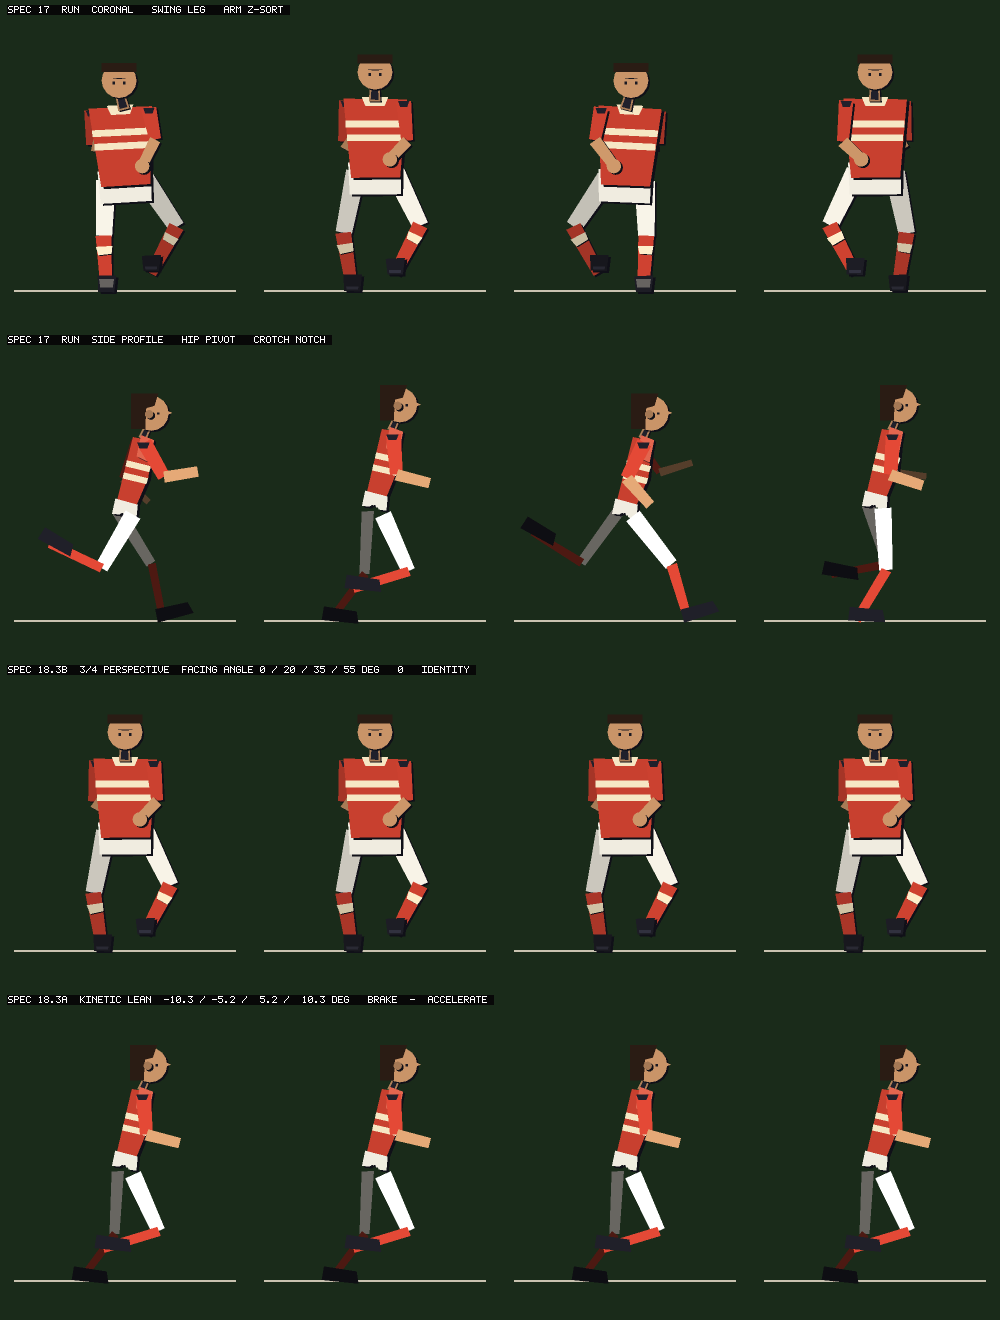
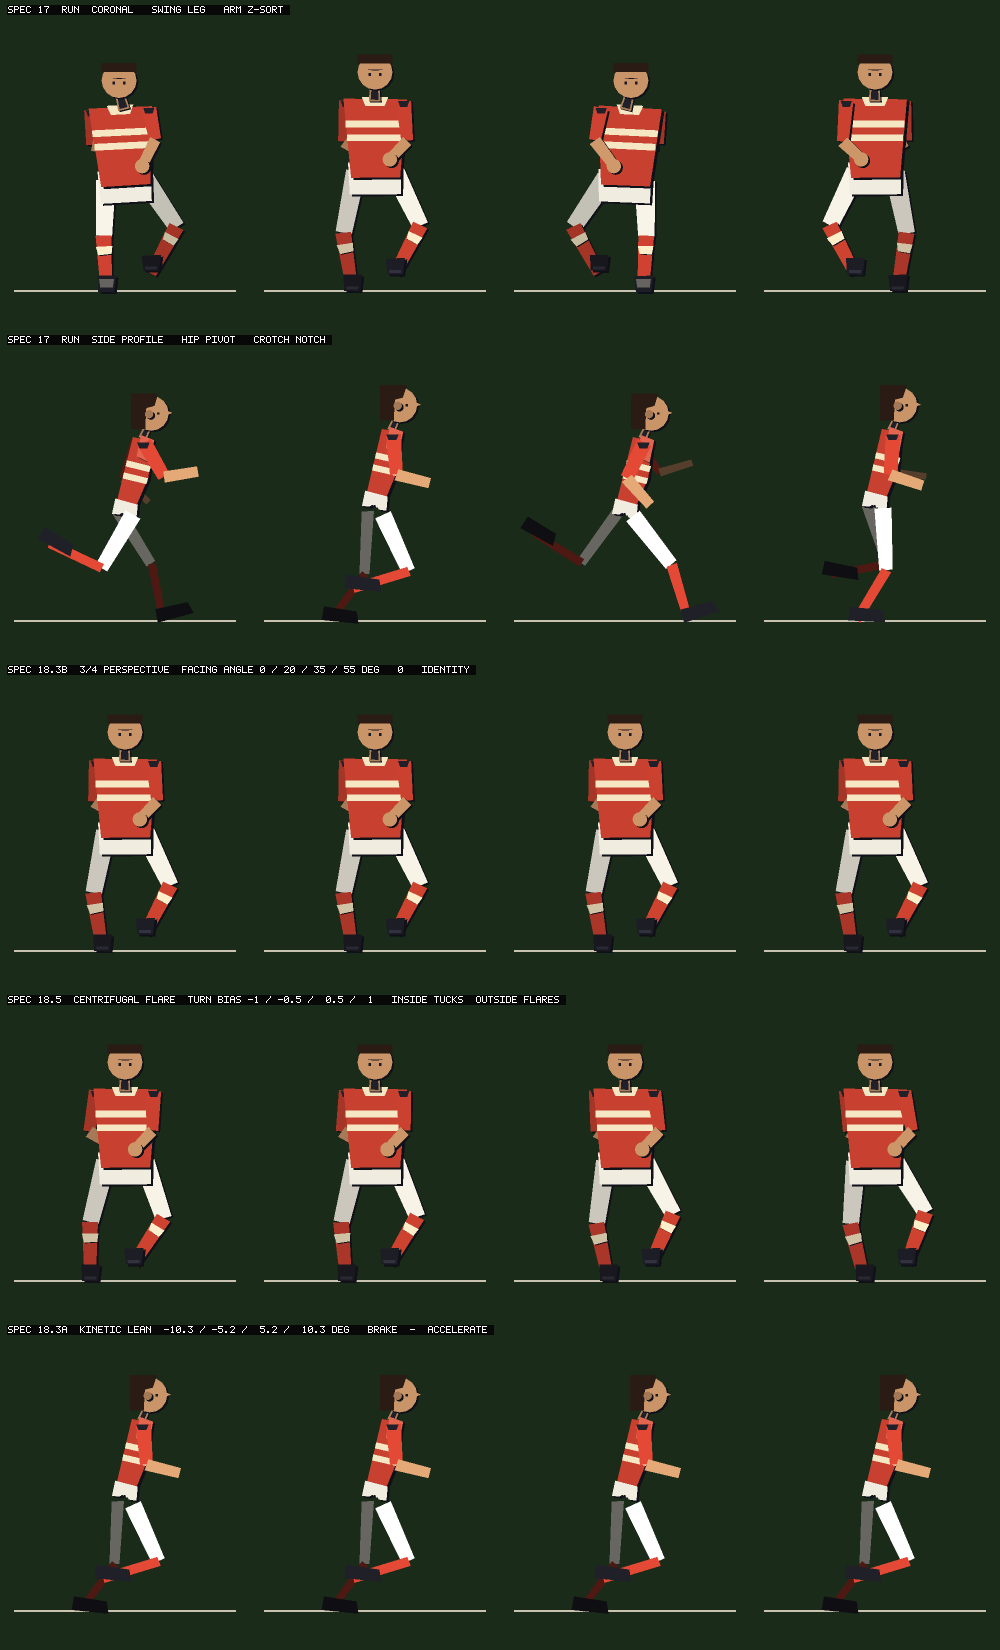
SPEC_18.5: centrifugal secondary animation
Turn rate is the signed curvature of the smoothed velocity, taken as the
cross product with its own derivative rather than by differentiating a
heading angle. Verified exact to 3 decimals against known circular
motion (r=5 v=7 -> 1.400, r=10 v=8 -> 0.800, r=3 v=6 -> 2.000 rad/s).
Speed-gated by smoothstep over 1.5-3.5 m/s, EMA at tau=0.35 sharing the
18.3a velocity so lean and flare can never disagree, then tanh at
W_REF=2.0.

Live behaviour matches the proposal: bias p50 0.054, p90 0.501, p99
0.872, strictly bounded inside (-1,1), 0.56% of frames saturated.

TWO BUGS CAUGHT BY MEASUREMENT, both of which the eye passed:

1. The knee bias must NOT go on solveKnee's . That argument is a
   +/-1 perpendicular selector, not an angle, and the IK only preserves
   bone length at exactly |bend|=1 - bend=1.3 stretches the femur
   0.440 -> 0.473 m and bend=2.0 to 0.571 m. That is the hyperextension
   the directive asked to prevent, and the natural reading of 'apply a
   bend bias' causes it. The bias is applied to the IK FOOT TARGET
   instead, so both bone lengths stay exact by construction: worst thigh
   error 0.0000% across 25600 samples.

2. The flare was applied in world x, which moved BOTH legs the same way
   - the stance widened or narrowed symmetrically instead of the inside
   limb tucking while the outside flared. Now applied along each limb's
   own outward direction. Inside tucks and outside flares in both
   directions, mirror-symmetric, identity at zero.
[…]

diff --git a/src/render/paper.ts b/src/render/paper.ts
@@ -636,6 +636,8 @@ export const FOOT_DEBOUNCE = 0.10;
 
 export interface LeanState {
   vx: number; vz: number;        // EMA velocity
+  ax: number; az: number;        // derivative of the EMA velocity (SPEC_18.5)
+  omega: number;                 // EMA signed turn rate, rad/s (SPEC_18.5)
   a: number;                     // EMA along-travel acceleration
   started: boolean;
   lastFootT: number;             // debounce clock
@@ -644,7 +646,7 @@ export interface LeanState {
 }
 
 export function newLeanState(): LeanState {
-  return { vx: 0, vz: 0, a: 0, started: false, lastFootT: -99, wasGrounded: true, squash: 0 };
+  return { vx: 0, vz: 0, ax: 0, az: 0, omega: 0, a: 0, started: false, lastFootT: -99, wasGrounded: true, squash: 0 };
 }
 
 /**
@@ -659,16 +661,19 @@ export function updateLean(st: LeanState, rawVx: number, rawVz: number, stepped:
   // 1 — reject discontinuities: reseed rather than differentiate a teleport
   if (stepped > MAX_STEP) {
     st.vx = rawVx; st.vz = rawVz; st.started = true;
+    st.ax = 0; st.az = 0;   // a teleport is not a turn
+
     return SHEAR_MAX * Math.tanh(st.a / A_REF);
   }
   const av = 1 - Math.exp(-dt / LEAN_TAU);
-  if (!st.started) { st.vx = rawVx; st.vz = rawVz; st.started = true; return 0; }
+  if (!st.started) { st.vx = rawVx; st.vz = rawVz; st.ax = 0; st.az = 0; st.started = true; return 0; }
   // 2 — EMA the velocity
   const px = st.vx, pz = st.vz;
   st.vx += (rawVx - st.vx) * av;
   st.vz += (rawVz - st.vz) * av;
   // 3 — differentiate the SMOOTHED velocity
   const ax = (st.vx - px) / dt, az = (st.vz - pz) / dt;
+  st.ax = ax; st.az = az;   // SPEC_18.5 reads these for the curvature cross product
   // 4 — project along travel (signed: + accelerating, - braking)
   const spd = Math.hypot(st.vx, st.vz);
   const along = spd > 0.5 ? (ax * st.vx + az * st.vz) / spd : 0;
@@ -694,6 +699,68 @@ export function updateFootSquash(st: LeanState, grounded: boolean, spd: number, 
   // spike then recover over ~6 frames at 60 Hz
   st.squash = Math.max(0, st.squash - dt * (FOOT_SQUASH / 0.10));
   return st.squash;
+}
+
+/* ================================================================== */
+/* SPEC_18.5 — CENTRIFUGAL SECONDARY ANIMATION                         */
+/* ------------------------------------------------------------------ */
+/* Limbs respond to angular momentum: the inside limb of a turn tucks  */
+/* toward the body, the outside limb flares out.                       */
+/*                                                                     */
+/* The turn rate is NOT taken from a heading angle. Measured, the raw  */
+/* travel heading d/dt atan2(vx,vz) has a p99 of 8091 deg/s — 22 revs  */
+/* per second — because atan2 of a near-zero velocity is undefined and */
+/* flips wildly; below the 2.2 m/s facing threshold p99 is 9763 deg/s. */
+/* Nor is it taken from the renderer's `pg.face`: that is driven by    */
+/* three different targets which switch mode 4077 times in 90 s, and   */
+/* each switch is a step change that is not real rotation. And `a.rf`  */
+/* is a +/-1 sign, not an angle at all.                                */
+/*                                                                     */
+/* Instead: signed curvature of the SMOOTHED velocity, via the cross   */
+/* product with its own derivative. No atan2, so no wrap discontinuity */
+/* and no low-speed singularity.                                       */
+/*                                                                     */
+/*     w = (vx*az - vz*ax) / |v|^2                                     */
+/*                                                                     */
+/* Verified against known circular motion, exact to 3 decimals:        */
+/* r=5 v=7 -> 1.400, r=10 v=8 -> 0.800, r=3 v=6 -> 2.000 rad/s.        */
+/* Peak on live play 4.92 rad/s, against 188 rad/s for the raw signal. */
+/* ================================================================== */
+
+/** tanh reference. 2.0 keeps a jog near 10% bias, a hard turn near 90%,
+ *  and saturates on only 0.88% of moving frames (measured). */
+export const W_REF = 2.0;
+/** Speed ramp, m/s. A hard gate chattered: 15 sign flips vs 8 for the ramp. */
+export const W_GATE_LO = 1.5;
+export const W_GATE_HI = 3.5;
+/** Max lateral bias, radians-equivalent. Bounded by tanh, so these are hard. */
+export const KNEE_GAIN = 0.10;
+export const ELBOW_GAIN = 0.14;
+
+/**
+ * The cross product below is NEGATIVE for a counter-clockwise turn. Naming the
+ * convention once, here, is the only defence against wiring the flare backwards
+ * — the sign is otherwise invisible at the call site.
+ */
+export function insideSign(omega: number): number {
+  return omega >= 0 ? -1 : 1;
+}
+
+/**
+ * Advance the turn-rate filter and return the saturated bias in (-1, 1).
+ * Shares `LeanState`'s EMA velocity so the lean and the limb flare read the
+ * same motion and can never disagree about which way the player is turning.
+ */
+export function updateTurnBias(st: LeanState, dt: number): number {
+  if (dt <= 0) return Math.tanh(st.omega / W_REF);
+  const spd = Math.hypot(st.vx, st.vz);
+  // smoothstep speed gate: no centrifugal force without linear velocity
+  const t = Math.min(1, Math.max(0, (spd - W_GATE_LO) / (W_GATE_HI - W_GATE_LO)));
+  const gate = t * t * (3 - 2 * t);
+  const raw = spd > 0.5 ? ((st.vx * st.az - st.vz * st.ax) / (spd * spd)) * gate : 0;
+  const a = 1 - Math.exp(-dt / LEAN_TAU);
+  st.omega += (raw - st.omega) * a;
+  return Math.tanh(st.omega / W_REF);
 }
 
 /* ================================================================== */

diff --git a/src/render/coronal.ts b/src/render/coronal.ts
@@ -21,6 +21,7 @@ import {
   paperCard, poly, foldTab, crease, ballPaper,
   hipRoots, groundedClearance, armDepth, solveKnee,
   depthShade, pairShade, cornerRadius,
+  insideSign, KNEE_GAIN, ELBOW_GAIN,
 } from './paper';
 import { Pose } from './clips';
 import { project, type Camera, type View } from './retro';
@@ -63,6 +64,8 @@ export interface PaperDrawArgs {
   legScale?: number;
   /** SPEC_18.3a — kinetic lean, radians. Sheared about the foot anchor. */
   lean?: number;
+  /** SPEC_18.5 — saturated centrifugal turn bias, -1..1. */
+  turn?: number;
   /** SPEC_18.3b — 3/4 projection for the front/back card. */
   tq?: { shear: number; narrow: number };
   /** Which way the actor is turning away from camera, +1 / -1. */
@@ -87,6 +90,20 @@ function rotPt(px: number, py: number, cx: number, cy: number, ang: number): [nu
   const c = Math.cos(ang), s = Math.sin(ang);
   const dx = px - cx, dy = py - cy;
   return [cx + dx * c - dy * s, cy + dx * s + dy * c];
+}
+
+/**
+ * SPEC_18.5 — how strongly each arm is locked to the ball, 0..1, using exactly
+ * the weights `carryPose` applies below. Returned as [left, right] so the
+ * centrifugal flare can be suppressed in proportion to the override rather
+ * than switched off by a boolean guess.
+ */
+export function carryLock(carry: number, cs: number, ballSide: number): [number, number] {
+  if (carry <= 0.02) return [0, 0];
+  const nearR = ballSide >= 0;
+  const twoHand = clamp01(1 - cs * 1.6) * carry;
+  const wFar = Math.max(twoHand, cs * carry);
+  return nearR ? [wFar, carry] : [carry, wFar];
 }
 
 /** apply carry overrides: clamp arm around the ball, fend with the far arm */
@@ -229,7 +246,22 @@ function drawCoronal(L: Locals, a: PaperDrawArgs, front: boolean) {
     const thighD = b.leg * 0.52 * fore, shinD = b.leg * 0.48 * fore;
     /* Lateral travel: abduction plus a small sagittal cross-under, so a
      * swinging leg passes under the body instead of hanging out to the side. */
-    const footX = hx + s * ad * (thighD + shinD) * 0.42 - Math.sin(l) * 0.055 * s;
+    /* SPEC_18.5 — centrifugal bias. Applied to the IK FOOT TARGET, never to
+     * `bend`. `bend` is a +/-1 perpendicular selector, not an angle: the IK
+     * only preserves bone length at exactly |bend| = 1. Measured, bend = 1.3
+     * stretches the femur 0.440 -> 0.473 m and bend = 2.0 stretches it to
+     * 0.571 m. Biasing it would literally hyperextend the leg. Moving the
+     * target instead keeps both bone lengths exact by construction, and
+     * solveKnee's own `reach * 0.999` clamp bounds the result. */
+    /* The bias must act along each limb's OWN outward direction (`s`), not
+     * along world x. Applying it in world x moved both legs the same way, so
+     * the stance merely widened or narrowed symmetrically instead of the
+     * inside limb tucking while the outside limb flared. Measured before the
+     * fix: at turn = +1 both feet sat 0.084 m FURTHER from the spine. */
+    const inSide = insideSign(a.turn ?? 0);
+    const legFlare = (a.turn ?? 0) === 0 ? 0
+      : s * (s === inSide ? -1 : 1) * Math.abs(a.turn ?? 0) * KNEE_GAIN * (thighD + shinD);
+    const footX = hx + s * ad * (thighD + shinD) * 0.42 - Math.sin(l) * 0.055 * s + legFlare;
     const footY = s < 0 ? clrL : clrR;
     const [kneeX, kneeY] = solveKnee(hx, hy, footX, footY, thighD, shinD, s);
     /* SPEC_18.1 — the leg's own depth. `sin(l)` is the odd term: a leg swung
@@ -301,18 +333,28 @@ function drawCoronal(L: Locals, a: PaperDrawArgs, front: boolean) {
   const avf = front ? 1 : -1;
   const [shKitL, shKitR] = pairShade(pal.kit, armDepth(p.aL) * avf, armDepth(p.aR) * avf);
   const [shSkinL, shSkinR] = pairShade(a.skin, armDepth(p.aL) * avf, armDepth(p.aR) * avf);
+  const [carryLockL, carryLockR] = carryLock(a.carry, a.carryStyle, a.ballSide);
   const drawOneArm = (s: -1 | 1) => {
     const aa = s < 0 ? p.aL : p.aR;
     const e = s < 0 ? p.eL : p.eR;
     const ab = s < 0 ? p.abL : p.abR;
     const dep = armDepth(aa);
+    /* SPEC_18.5 — elbow flare, suppressed on an arm locked to the ball so the
+     * carry cannot visually disconnect (ruled). `carryLock` is the same weight
+     * carryPose used to override this arm, so suppression tracks the override
+     * exactly rather than guessing from a boolean. */
+    const armInside = insideSign(a.turn ?? 0);
+    const flareW = 1 - (s < 0 ? carryLockL : carryLockR);
+    /* `ab` is already a per-side abduction (multiplied by `s` at use), so a
+     * positive bias abducts and a negative one adducts — no `s` factor here. */
+    const abBias = (s === armInside ? -1 : 1) * Math.abs(a.turn ?? 0) * ELBOW_GAIN * flareW;
     const [sx0, sy0] = RP(s * shHalf * 0.9 + tws, shY - 0.02);
     /* Depth foreshortening: an arm swung out of the coronal plane draws
      * shorter on the card. Front-swing and back-swing shorten alike, which is
      * correct — it is the SORT that tells them apart, not the length. */
     const fs = lerp(1, Math.abs(Math.cos(aa)), 0.42);
     const upD = upLen * fs, foreD = foreLen * fs;
-    const elX = sx0 + s * ab * upD * 0.85 + dep * 0.055 * s;
+    const elX = sx0 + s * (ab + abBias) * upD * 0.85 + dep * 0.055 * s;
     const elY = sy0 - Math.cos(aa) * upD;
     const hdX = elX - s * Math.sin(e) * foreD * 0.5 + dep * 0.045;
     const hdY = elY - Math.cos(aa - e * 0.8) * foreD * 0.8;

diff --git a/src/render/scene.ts b/src/render/scene.ts
@@ -22,7 +22,7 @@ import {
   PALETTES, PaperView, Character, makeCharacter, makeRef,
   paperViewKey, updatePaperView, resetPaperViews, ballPaper, shadowBlob,
   upperLowerRun, squashForClip, edgeLegForeshorten,
-  newLeanState, updateLean, threeQuarter, facingAngle, updateFootSquash, combineSquash, groundedClearance, type LeanState,
+  newLeanState, updateLean, updateTurnBias, threeQuarter, facingAngle, updateFootSquash, combineSquash, groundedClearance, type LeanState,
   BUILDS, paperCard, type Pt,
 } from './paper';
 import { resetFacingDebug, recordFacingDebug } from './facingDebug';
@@ -55,6 +55,7 @@ interface Puppet {
   /* SPEC_18.3a — kinetic lean/squash filter state. */
   lean: LeanState;
   leanAngle: number;
+  turnBias: number;
   footSquash: number;
   clock: number;
 }
@@ -176,7 +177,7 @@ function puppetFor(d: Director, a: Actor, dt: number, look: [number, number] | n
       ch: a.team === 'REF' ? makeRef() : makeCharacter(a.team === 'B' ? 'B' : 'A', a.num),
       seed: (a.num * 37 + (a.team === 'B' ? 11 : 3)) % 97,
       lat: 0, view: 'front', gait: 'idle',   // SPEC_06 — facing/strafe debug + hysteresis
-      lean: newLeanState(), leanAngle: 0, footSquash: 0, clock: 0,  // SPEC_18.3a
+      lean: newLeanState(), leanAngle: 0, turnBias: 0, footSquash: 0, clock: 0,  // SPEC_18.3a/18.5
     };
     puppets.set(key, pg);
   }
@@ -188,6 +189,9 @@ function puppetFor(d: Director, a: Actor, dt: number, look: [number, number] | n
   pg.spd = Math.hypot(vx, vz);
   /* SPEC_18.3a — filtered lean. Teleports are rejected inside updateLean. */
   pg.leanAngle = updateLean(pg.lean, vx, vz, stepped, dt);
+  /* SPEC_18.5 — must run AFTER updateLean, which publishes the smoothed
+   * acceleration this reads. */
+  pg.turnBias = updateTurnBias(pg.lean, dt);
   /* PLAYTEST 4 — FACING. A moving man walks where he is going; a slow or
    * stationary man LOOKS AT THE BALL. The old velocity-only heading had
    * support runners strolling back to marks staring straight at the camera
@@ -421,7 +425,7 @@ export function drawMatch(ctx: CanvasRenderingContext2D, d: Director, v: View) {
 
     const args: PaperDrawArgs = {
       ctx, sx: pr.sx, sy: pr.sy, sc: pr.sc, view, pose,
-      lean: pg.leanAngle,
+      lean: pg.leanAngle, turn: pg.turnBias,
       tq: tqProj, tqSign: tqSign,
       /* SPEC_14 — the shadow is projected from world geometry now. */
       cam: cam2, v, wx: a.rx, wz: a.rz, face: a.rf,

diff --git a/scripts/spec17shot.ts b/scripts/spec17shot.ts
@@ -53,7 +53,7 @@ function sample(name: string, u: number): Pose {
 
 const cam: Camera = { x: 0, z: -12, h: 1.6, yaw: 0, tilt: 0.05, fov: 0.42, shake: 0, horizon: 0.5, roll: 0 };
 
-function cell(view: 'front' | 'rightEdge', u: number, ox: number, oy: number, lean = 0, tqAng: number | null = null): Poly[] {
+function cell(view: 'front' | 'rightEdge', u: number, ox: number, oy: number, lean = 0, tqAng: number | null = null, turn = 0): Poly[] {
   const rec = new Rec();
   rec.cap = [];
   const ctx = rec.asCtx();
@@ -72,7 +72,7 @@ function cell(view: 'front' | 'rightEdge', u: number, ox: number, oy: number, le
     carry: 0, carryStyle: 0, ballSide: 0.6, ballSpin: 0,
     cap: false, tape: false, spinDir: 1, gs: 0.6, fore: 0,
     headDir: 0, depth: 0, lean,
-    tq: tqAng === null ? undefined : threeQuarter(tqAng), tqSign: 1,
+    tq: tqAng === null ? undefined : threeQuarter(tqAng), tqSign: 1, turn,
   };
   drawPaperActor(args);
   return (rec.cap ?? []).map((c) => ({
@@ -92,6 +92,10 @@ const TQ = [0, 20, 35, 55];
 const tqP: Poly[] = [];
 TQ.forEach((ang, i) => { tqP.push(...cell('front', 0.25, i * CELL.w, 0, 0, ang)); });
 
+const TURNS = [-1, -0.5, 0.5, 1];
+const turnP: Poly[] = [];
+TURNS.forEach((t, i) => { turnP.push(...cell('front', 0.25, i * CELL.w, 0, 0, null, t)); });
+
 const LEANS = [-0.18, -0.09, 0.09, 0.18];
 const leanP: Poly[] = [];
 LEANS.forEach((ln, i) => { leanP.push(...cell('rightEdge', 0.25, i * CELL.w, 0, ln)); });
@@ -101,6 +105,7 @@ rasterise(
     { name: `SPEC_17  ${clip.toUpperCase()}  CORONAL  (swing leg + arm z-sort)`, polys: coronalP },
     { name: `SPEC_17  ${clip.toUpperCase()}  SIDE PROFILE  (hip pivot + crotch notch)`, polys: sideP },
     { name: 'SPEC_18.3b  3/4 PERSPECTIVE  facing angle 0 / 20 / 35 / 55 deg  (0 = identity)', polys: tqP },
+    { name: 'SPEC_18.5  CENTRIFUGAL FLARE  turn bias -1 / -0.5 / +0.5 / +1  (inside tucks, outside flares)', polys: turnP },
     { name: 'SPEC_18.3a  KINETIC LEAN  -10.3 / -5.2 / +5.2 / +10.3 deg  (brake <-> accelerate)', polys: leanP },
   ],
   out,
